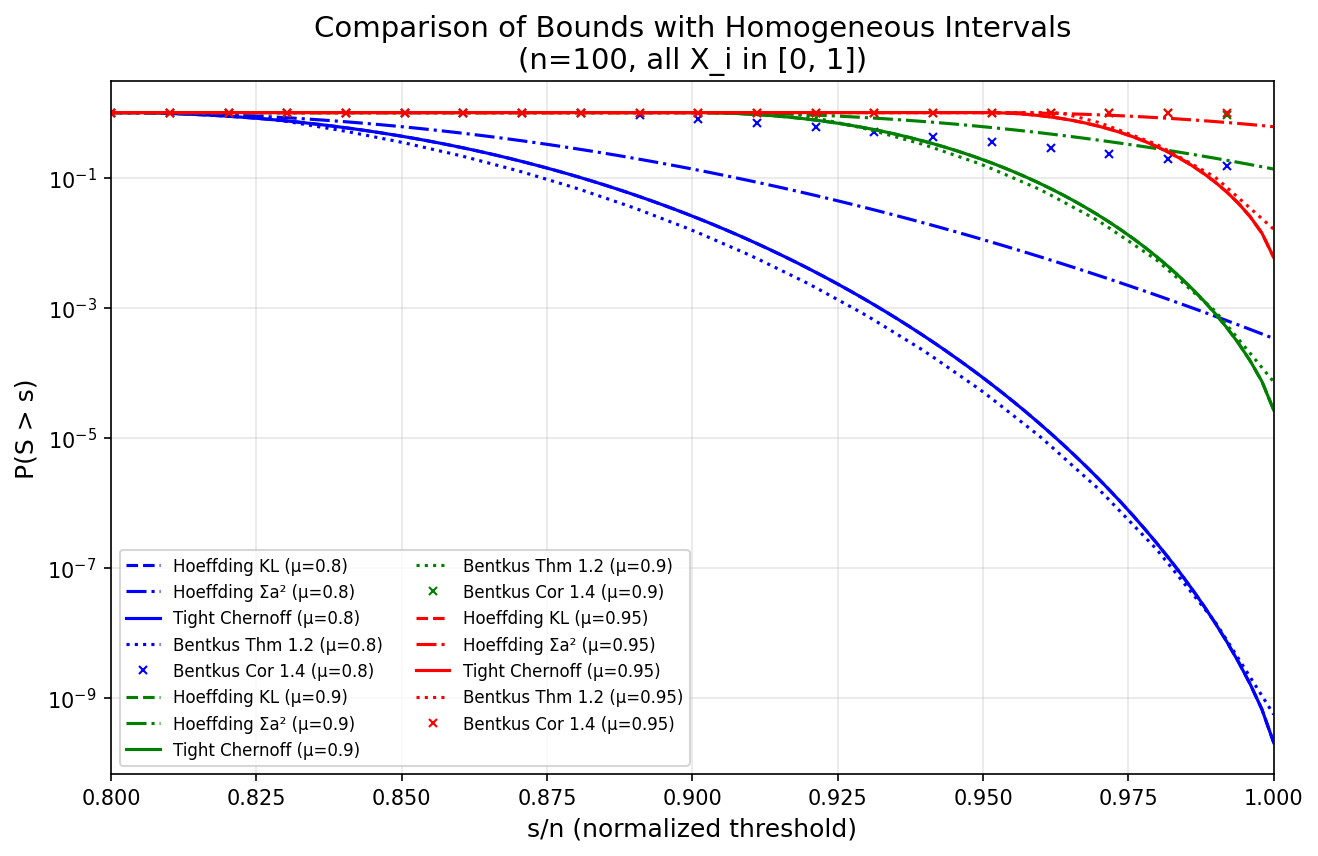
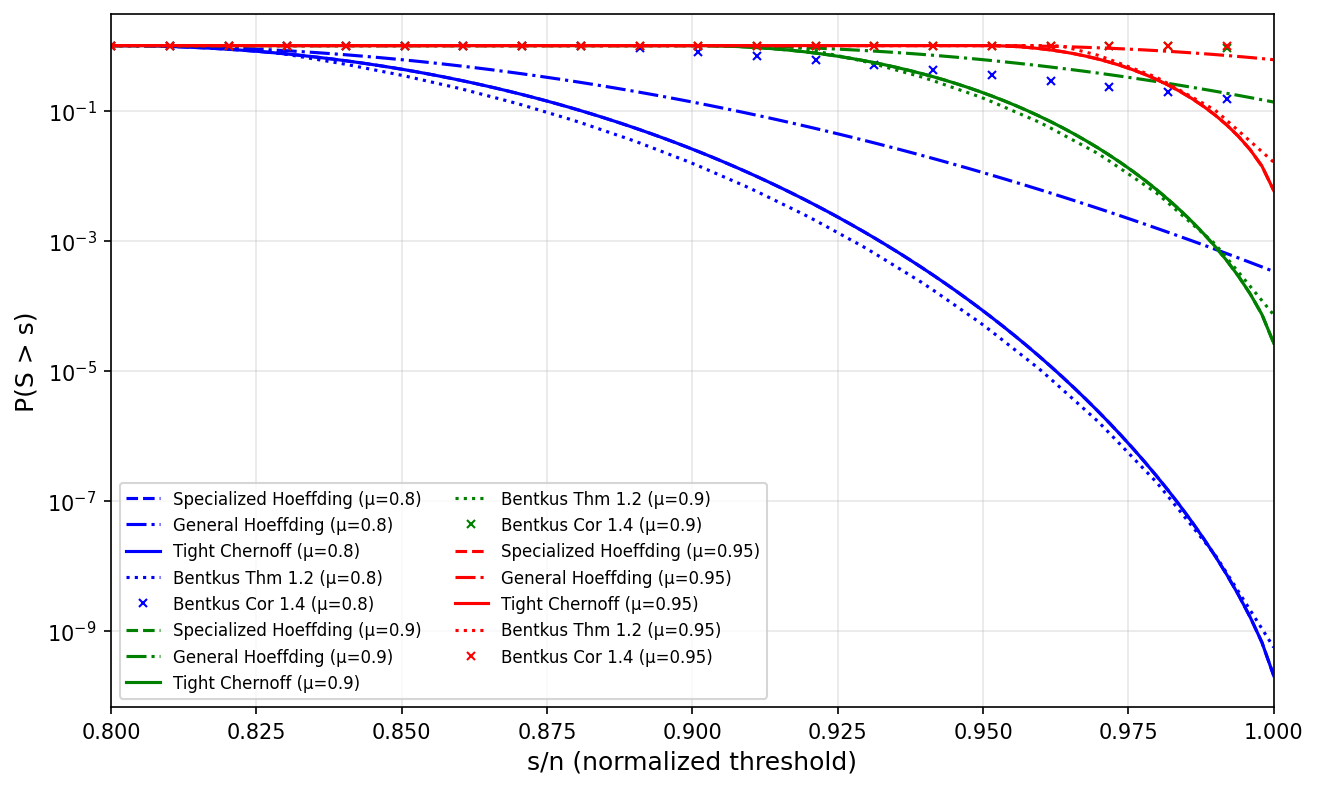
Fix Hoeffding plot naming, remove titles, correct n inconsistency, add appendix (#13)
* Initial plan

* Fix Hoeffding plot naming, remove titles, fix n inconsistency, add appendix plots and discussion

* Improve sentence readability in simulations section

* Restructure intro: defer a_i=0 discussion until after main contribution

* Refine intro: hypothesis testing context, move a_i paragraph, highlight Chernoff optimization

* Move a_i paragraph before refinements section, remove RMS terminology

---------

diff --git a/manuscript/main.tex b/manuscript/main.tex
@@ -59,7 +59,7 @@ We construct a new tail bound for the sum of independent random variables for si
 
 \section{Introduction}
 
-The celebrated Hoeffding's inequality \citep[Theorem 2]{hoeffding_probability_1963} has been a cornerstone for probability and statistics over the last 60 years.  This inequality, which we refer to as the ``general Hoeffding inequality,'' concerns the sum of $n$ independent random variables, $(X_1,\ldots, X_n)$.  Each variable $X_i$ lies in some known interval $[a_i,b_i]$, for $i\in \{1,\ldots n\}$.  In this article, without loss of generality, we assume that $a_i=0$ for each $i$.  The general Hoeffding inequality states that the sum of these random variables, $S=\sum_{i=1}^n X_i$, is unlikely to greatly exceed its expected value, $\mu=\mathbb{E}[S]$.  In particular, for any $t\geq 0$,
+The celebrated Hoeffding's inequality \citep[Theorem 2]{hoeffding_probability_1963} has been a cornerstone for probability and statistics over the last 60 years.  This inequality, which we refer to as the ``general Hoeffding inequality,'' concerns the sum of $n$ independent random variables, $(X_1,\ldots, X_n)$.  Each variable $X_i$ lies in some known interval $[a_i,b_i]$, for $i\in \{1,\ldots n\}$.  In this article, without loss of generality, we assume that $a_i=0$ for each $i$; we return to this issue below.  The general Hoeffding inequality states that the sum of these random variables, $S=\sum_{i=1}^n X_i$, is unlikely to greatly exceed its expected value, $\mu=\mathbb{E}[S]$.  In particular, for any $t\geq 0$,
 \begin{equation} \label{eq:hoeffgeneral}
 \mathbb{P}(S \geq \mu+t) \leq \exp\left(-2t^2 / \sum_{i=1}^n b_i^2 \right).
 \end{equation}
@@ -69,11 +69,13 @@ Hoeffding's seminal work also included a less well-known bound, which is applica
 \end{equation}
 We refer to Equation~\ref{eq:hoeffspecial} as the ``specialized Hoeffding inequality.'' Equation~\ref{eq:hoeffspecial} is tighter than Equation~\ref{eq:hoeffgeneral} in situations where both are applicable.  
 
-Several authors have proposed refinements to Hoeffding's inequality.  \citet{from2013refinement} and \citet{hertz2020improved} provide improved bounds by exploiting additional information about the distributions of the individual random variables.  However, to construct these improved bounds, it is necessary to know the per-variable means $\mathbb{E}[X_i]$ for each variable $i$.  In contrast, the bound we propose here requires only the overall mean $\mu = \sum_{i=1}^n \mathbb{E}[X_i]$, which is often the only quantity known or estimated in practice.
+Note that both the general and specialized Hoeffding inequalities can be applied to translated intervals of the form $[a_i, b_i]$ without difficulty: we can always translate each variable by defining $Y_i = X_i - a_i$, which lies in $[0, b_i - a_i]$, and the sum $\sum_i Y_i = \sum_i X_i - \sum_i a_i$ differs from the original sum by a known constant.  The tail bound for $S = \sum_i X_i$ then follows directly from the bound for $\sum_i Y_i$.  This reduction is possible because we are interested in one-sided tail bounds of the form $\mathbb{P}(S \geq s)$; the translation preserves the structure of the problem.  We note that this setting differs from another line of work that considers the case where $\mathbb{E}[X_i] = 0$ for every $i$ and the bounds take the form $a_i < 0 < b_i$ with both $a_i$ and $b_i$ known per variable.  In that symmetric-around-zero setting, the sidedness of the intervals (i.e., the magnitudes of $a_i$ and $b_i$) very much matters and cannot simply be shifted away.  The assumption $\mathbb{E}[X_i] = 0$ for each variable provides additional structure that can be exploited for tighter bounds.  In contrast, our setting assumes only that each $X_i \in [0, b_i]$ with known overall mean $\mu = \sum_i \mathbb{E}[X_i]$, without knowledge of the individual means.
 
-\citet{bentkus2004hoeffding} establishes two refinements of Hoeffding's inequality that compare tail probabilities to those of binomial-type distributions.  Theorem 1.2 requires all bounding intervals to be of the same size, i.e., $b_i = b$ for all $i$, and compares to a scaled Binomial$(n, p)$ distribution.  When the intervals are heterogeneous, Theorem 1.2 can still be applied by rescaling all variables to lie within $[0, \max_i b_i]$, though this may result in a looser bound.  Corollary 1.4 offers an alternative approach using a symmetric Bernoulli comparison with RMS scale $\sqrt{\sum_i b_i^2/n}$, but it requires bounds of the form $|X_i - \mathbb{E}[X_i]| \leq b_i$.  This is a fundamentally different assumption than knowing that $X_i \in [0, b_i]$: the former bounds the deviation of each variable from its own mean, while the latter specifies a fixed interval containing the variable's support.  In our setting, we know only that $X_i \in [0, b_i]$ and the overall mean $\mu = \sum_i \mathbb{E}[X_i]$, but not the individual means $\mathbb{E}[X_i]$.  Neither Bentkus variant directly handles this case.  We include comparisons with both Bentkus bounds in our simulations.
+Several authors have proposed refinements to Hoeffding's inequality.  \citet{from2013refinement} and \citet{hertz2020improved} provide improved bounds by exploiting additional information about the distributions of the individual random variables.  However, to construct these improved bounds, it is necessary to know the per-variable means $\mathbb{E}[X_i]$ for each variable $i$.  In contrast, the bound we propose here requires only the overall mean $\mu = \sum_{i=1}^n \mathbb{E}[X_i]$, which is the natural quantity to consider when testing a null hypothesis about $\mu$.
 
-In this article, we propose a computable bound for the sum of independent random variables for situations in which the expected value of the sum is known and each random variable is known to lie in a fixed interval of arbitrary size, which may differ among variables.  Such bounds are useful for hypothesis testing regarding the sum's expected value based on an observed realization.  The new bound can be calculated by solving a two-dimensional convex optimization problem.  The result reduces to Equation~\ref{eq:hoeffspecial} in the special case that $b_i=1$ for each $i \in \{1,\ldots,n\}$.  We use simulations to demonstrate that the new bound can be much tighter than the general Hoeffding inequality in situations where both are applicable and the specialized Hoeffding inequality is not.
+\citet{bentkus2004hoeffding} establishes two refinements of Hoeffding's inequality that compare tail probabilities to those of binomial-type distributions.  Theorem 1.2 requires all bounding intervals to be of the same size, i.e., $b_i = b$ for all $i$, and compares to a scaled Binomial$(n, p)$ distribution.  When the intervals are heterogeneous, Theorem 1.2 can still be applied by rescaling all variables to lie within $[0, \max_i b_i]$, though this may result in a looser bound.  Corollary 1.4 offers an alternative approach using a symmetric Bernoulli comparison with scale $\sqrt{\sum_i b_i^2/n}$, but it requires bounds of the form $|X_i - \mathbb{E}[X_i]| \leq b_i$.  This is a fundamentally different assumption than knowing that $X_i \in [0, b_i]$: the former bounds the deviation of each variable from its own mean, while the latter specifies a fixed interval containing the variable's support.  In our setting, we know only that $X_i \in [0, b_i]$ and the overall mean $\mu = \sum_i \mathbb{E}[X_i]$, but not the individual means $\mathbb{E}[X_i]$.  Neither Bentkus variant directly handles this case.  We include comparisons with both Bentkus bounds in our simulations.
+
+In this article, we propose a computable bound for the sum of independent random variables for situations in which the expected value of the sum is known and each random variable is known to lie in a fixed interval of arbitrary size, which may differ among variables.  Such bounds are useful for hypothesis testing regarding the sum's expected value based on an observed realization.  Our key insight is that the worst-case Chernoff--Cram\'er bound can be computed exactly by solving a two-dimensional convex optimization problem, yielding a tighter bound than the general Hoeffding inequality.  The result reduces to Equation~\ref{eq:hoeffspecial} in the special case that $b_i=1$ for each $i \in \{1,\ldots,n\}$.  We use simulations to demonstrate that the new bound can be much tighter than the general Hoeffding inequality in situations where both are applicable and the specialized Hoeffding inequality is not.
 
 \section{Notation and preliminaries}
 
@@ -159,7 +161,7 @@ This theorem suggests two methods for computing $\varphi^*$.  One method involve
 \end{center}
 \end{figure}
 
-We use simulations to assess the degree of improvement over the general Hoeffding inequality.  First, we sample a vector of interval lengths, $\boldsymbol{b} \in \mathbb{R}^{200}$, uniformly at random from the set of lengths such that $B=\sum_{i=1}^{100} b_i=1$.  We define $S$ to be the sum of 200 independent random variables, $(X_1,\ldots,X_{200})$, where each $X_i$ is constrained to the interval $[0,b_i]$ for $i\in \{1,\ldots,200\}$.  
+We use simulations to assess the degree of improvement over the general Hoeffding inequality.  First, we sample a vector of interval lengths, $\boldsymbol{b} \in \mathbb{R}^{100}$, uniformly at random from the set of lengths such that $B=\sum_{i=1}^{100} b_i=1$.  We define $S$ to be the sum of 100 independent random variables, $(X_1,\ldots,X_{100})$, where each $X_i$ is constrained to the interval $[0,b_i]$ for $i\in \{1,\ldots,100\}$.  The value of $n$ affects the tightness of all bounds.  However, the overall scaling of the $b_i$ values does not matter: what is relevant is the relative sizes of the intervals, so we normalize the intervals so that their maximum possible sum is 1.  
 
 For any fixed value of $\mu$ and any value $s \geq \mu$, our new results provide an upper bound on $\mathbb{P}(S>s)$, assuming $\mathbb{E}[S]=\mu$.  The general Hoeffding inequality can also be used to produce a bound on $\mathbb{P}(S>s)$, offering a natural point of comparison.  We also compare with the two Bentkus bounds \citep{bentkus2004hoeffding}: Theorem 1.2 requires all bounding intervals to be of the same size, while Corollary 1.4 uses RMS scale but requires centering information.  To apply Theorem 1.2 to heterogeneous intervals, we rescale all variables so that they lie within $[0, \max_i b_i]$.  For Corollary 1.4, we apply it using only the overall centering $S - \mu$.  These bounds on $\mathbb{P}(S>s)$ have practical implications, such as facilitating hypothesis testing for $\mathbb{E}[S]=\mu$ given an observed realization of $S$.
 
@@ -169,7 +171,7 @@ Figure~\ref{fig:tailboundcomparisons} compares our new Tight Chernoff bounds wit
 \begin{center}
 \includegraphics[width=5in]{comparisons/homogen_100.png}
   \caption{
-  Comparison of bounds for homogeneous intervals.  When all variables share the same bounding interval $[0,1]$, the specialized Hoeffding inequality (Equation~\ref{eq:hoeffspecial}) applies.  We compare the general Hoeffding inequality (``Hoeffding $\Sigma a^2$''), the specialized Hoeffding inequality (``Hoeffding KL''), our new Tight Chernoff bounds, Bentkus Theorem 1.2, and Bentkus Corollary 1.4.  Our Tight Chernoff bounds match the specialized Hoeffding inequality, as expected from Theorem~\ref{thm:lowd}.  In this homogeneous setting, the specialized Hoeffding inequality, the Bentkus Theorem 1.2 bound, and our Tight Chernoff bounds all provide much tighter bounds than the general Hoeffding inequality.  Bentkus Corollary 1.4 is less tight here due to its larger multiplicative constant ($2e^3/9 \approx 4.46$ vs.\ $e \approx 2.72$ for Theorem 1.2).
+  Comparison of bounds for homogeneous intervals.  When all variables share the same bounding interval $[0,1]$, the specialized Hoeffding inequality (Equation~\ref{eq:hoeffspecial}) applies.  We compare the general Hoeffding inequality, the specialized Hoeffding inequality, our new Tight Chernoff bounds, Bentkus Theorem 1.2, and Bentkus Corollary 1.4.  Our Tight Chernoff bounds match the specialized Hoeffding inequality, as expected from Theorem~\ref{thm:lowd}.  In this homogeneous setting, the specialized Hoeffding inequality, the Bentkus Theorem 1.2 bound, and our Tight Chernoff bounds all provide much tighter bounds than the general Hoeffding inequality.  Bentkus Corollary 1.4 is less tight here due to its larger multiplicative constant ($2e^3/9 \approx 4.46$ vs.\ $e \approx 2.72$ for Theorem 1.2).
   }\label{fig:homogencomparisons}
 \end{center}
 \end{figure}
@@ -320,6 +322,40 @@ t\mapsto\sum_{i}\log\left(1+\xi(b_i,t)\tau_{i}\right)-ts
 is convex in $t$. Thus $\min_{\lambda}g(t,\lambda)$ is also the
 pointwise maximum of a family of convex functions: it is also convex.
 \end{proof}  
+
+\section*{Sensitivity to Sample Size}\label{app:sensitivity}
+
+In this appendix, we present additional simulation results to demonstrate how the bounds vary with different sample sizes.  The main text presents results for $n=100$; here we show analogous results for $n=50$ and $n=200$.
+
+\begin{figure}[h]
+\begin{center}
+\includegraphics[width=5in]{comparisons/dirichlet_50.png}
+  \caption{Comparison of bounds for heterogeneous intervals with $n=50$ variables.}\label{fig:dirichlet50}
+\end{center}
+\end{figure}
+
+\begin{figure}[h]
+\begin{center}
+\includegraphics[width=5in]{comparisons/homogen_50.png}
+  \caption{Comparison of bounds for homogeneous intervals with $n=50$ variables.}\label{fig:homogen50}
+\end{center}
+\end{figure}
+
+\begin{figure}[h]
+\begin{center}
+\includegraphics[width=5in]{comparisons/dirichlet_200.png}
+  \caption{Comparison of bounds for heterogeneous intervals with $n=200$ variables.}\label{fig:dirichlet200}
+\end{center}
+\end{figure}
+
+\begin{figure}[h]
+\begin{center}
+\includegraphics[width=5in]{comparisons/homogen_200.png}
+  \caption{Comparison of bounds for homogeneous intervals with $n=200$ variables.}\label{fig:homogen200}
+\end{center}
+\end{figure}
+
+As the sample size increases, all bounds become tighter, but the relative advantage of the Tight Chernoff bound over the general Hoeffding inequality remains substantial across all values of $n$ considered.
 
 \end{appendix}
 

diff --git a/comparisons/homogen_compare.py b/comparisons/homogen_compare.py
@@ -117,13 +117,13 @@ def main(n=100):
         print(f"Computing bounds for mu={mu} (fraction={frac})...")
         hoeffding1, hoeffding2, tight_chernoff, bentkus_thm12, bentkus_cor14 = compute_bounds(s_values, mu, n)
         
-        # Plot Hoeffding Theorem 1 (KL) bound (dashed line)
+        # Plot Hoeffding Theorem 1 (KL) bound - "Specialized Hoeffding" (dashed line)
         ax.plot(s_values / n, hoeffding1, '--', color=color, 
-                label=f'Hoeffding KL (μ={frac})', linewidth=1.5)
+                label=f'Specialized Hoeffding (μ={frac})', linewidth=1.5)
         
-        # Plot Hoeffding Theorem 2 (sum of squares) bound (dash-dot line)
+        # Plot Hoeffding Theorem 2 (sum of squares) bound - "General Hoeffding" (dash-dot line)
         ax.plot(s_values / n, hoeffding2, '-.', color=color, 
-                label=f'Hoeffding Σa² (μ={frac})', linewidth=1.5)
+                label=f'General Hoeffding (μ={frac})', linewidth=1.5)
         
         # Plot Tight Chernoff bound (solid line)
         ax.plot(s_values / n, tight_chernoff, '-', color=color,
@@ -143,7 +143,6 @@ def main(n=100):
     
     ax.set_xlabel('s/n (normalized threshold)', fontsize=12)
     ax.set_ylabel('P(S > s)', fontsize=12)
-    ax.set_title(f'Comparison of Bounds with Homogeneous Intervals\n(n={n}, all X_i in [0, 1])', fontsize=14)
     ax.legend(loc='lower left', fontsize=8, ncol=2)
     ax.set_yscale('log')
     ax.grid(True, alpha=0.3)

diff --git a/comparisons/dirichlet_compare.py b/comparisons/dirichlet_compare.py
@@ -132,9 +132,9 @@ def main(n=100, seed=42):
         print(f"Computing bounds for mu={mu}...")
         hoeffding_bounds, tight_chernoff_bounds, bentkus_thm12_bounds, bentkus_cor14_bounds = compute_bounds(s_values, mu, a)
         
-        # Plot Hoeffding bound (dashed line)
+        # Plot Hoeffding bound (dashed line) - "General Hoeffding"
         ax.plot(s_values, hoeffding_bounds, '--', color=color, 
-                label=f'Hoeffding (μ={mu})', linewidth=1.5)
+                label=f'General Hoeffding (μ={mu})', linewidth=1.5)
         
         # Plot Tight Chernoff bound (solid line)
         ax.plot(s_values, tight_chernoff_bounds, '-', color=color,
@@ -150,7 +150,6 @@ def main(n=100, seed=42):
     
     ax.set_xlabel('s', fontsize=12)
     ax.set_ylabel('P(S > s)', fontsize=12)
-    ax.set_title(f'Comparison of Hoeffding, Tight Chernoff, and Bentkus Bounds\n(n={n}, simplex-distributed intervals)', fontsize=14)
     ax.legend(loc='lower left', fontsize=8, ncol=2)
     ax.set_yscale('log')
     ax.grid(True, alpha=0.3)
